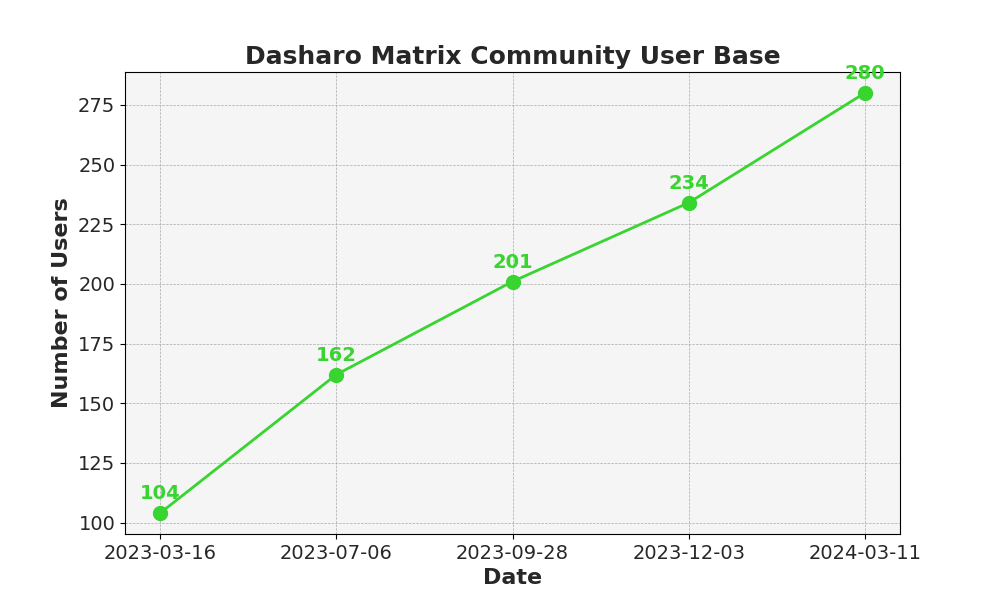
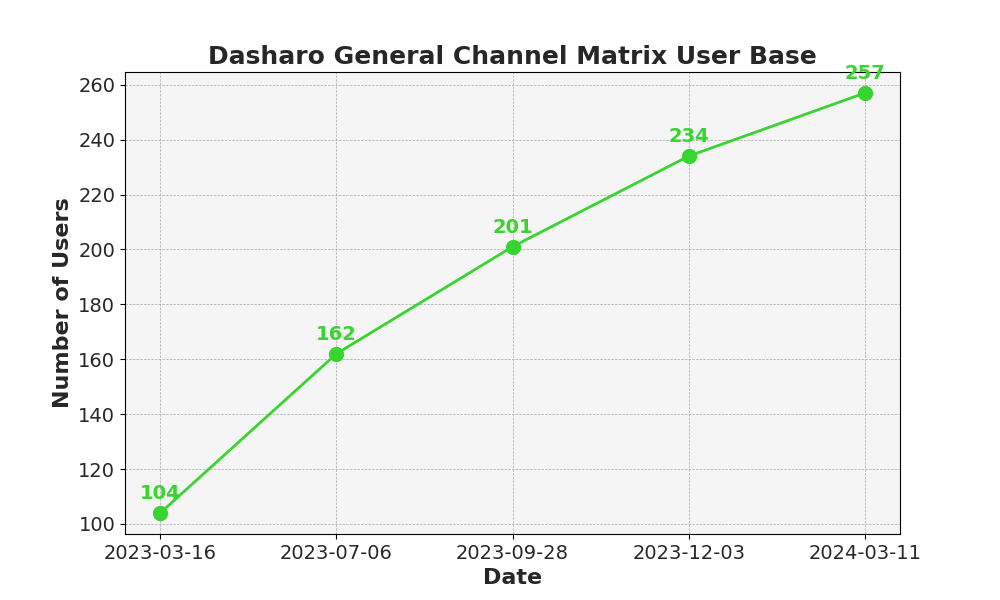
dug_5_dasharo_community_status: finalize presentation

diff --git a/diagrams/dasharo_users.py b/diagrams/dasharo_users.py
@@ -11,14 +11,14 @@ import matplotlib.ticker as ticker
 quarters = ["2023-03-16", "2023-07-06", "2023-09-28", "2023-12-03", "2024-03-11"]
 # Where is this number coming from? Dasharo Matrix Space? Or Dasharo General?
 # Let's make it Dasharo Matrix Space
-users = [104, 162, 201, 234, 280]
+users = [104, 162, 201, 234, 257]
 
 # Create the plot
 plt.figure(figsize=(10, 6))
 plt.plot(quarters, users, marker='o', linestyle='-', color='#38d430', linewidth=2, markersize=10)
 
 # Add titles and labels
-plt.title('Dasharo Matrix Community User Base', fontsize=18, fontweight='bold', color='#272727')
+plt.title('Dasharo General Channel Matrix User Base', fontsize=18, fontweight='bold', color='#272727')
 plt.xlabel('Date', fontsize=16, fontweight='bold', color='#272727')
 plt.ylabel('Number of Users', fontsize=16, fontweight='bold', color='#272727')
 

diff --git a/dug_5_dasharo_community_status.md b/dug_5_dasharo_community_status.md
@@ -17,36 +17,101 @@ SPDX-License-Identifier: CC-BY-SA-4.0
 Date of previous data snapshot: 03/12/2023
 Date of data snapshot: 11/03/2024
 
-- Considerations of lowlighter/metrics followup plugin
-  - it can be easily selfhosted
-  - gives a lot of inspiration as well as data
-  - of course those data points are little bit different and key question is
-    what to do with those, it essentially provide new data which may be but
-    doesn't have to be relevant
-- Commands cheat sheet
+---
 
-  - issues: `./diagrams/dasharo_issues.py`
-  - PRs: `./diagrams/dasharo_forks.py`
-  - number of unique users active in Dasharo community
-    - PAGER="less -R" gh issue list -s all -L 5000 --json author,comments --jq '.[].author.login'|sort|uniq|wc -l
-  - count all comments
-    - PAGER="less -R" gh issue list -s all -L 5000 --json comments --jq '.[].[].[].createdAt'|wc -l
-  - count how many comments each user posted
-    - PAGER="less -R" gh issue list -s all -L 5000 --json comments --jq '.[].[].[].author.login'|sort|uniq -c|sort -h
-  - matrix activity
-    - fetching all communication may be not the most effective way to get data (general: 00:11-TBD),
-      there seem to be need for differential download, but it looks like matrix
-      does not support that
-    - number of messages for DUG#4 snapshot:
-    - matrix comments per user:
-    - grep -E "\-.+: " matrix\ -\ Dasharo\ -\ General\ -\ Chat\ Export\ -\ 2023-07-02T22-37-07.435Z.txt |cut -d"-" -f2|cut -d":" -f1|grep -E "^ "|sort|uniq -c|grep -v "banned"|sort -h|grep -v import|grep -v "'"|grep -v "removed"|grep -v coreboot
+# Agenda
 
-- TBD: look at community status of other projects, news?
-  - consider news presentation with Dasharo status about the OpenSIL
-  - maybe announcements section
-- Documentation releases?
-  - in long run everything should be a release, it would be easier to track
-    ideas related to improvements of given area of development
+- DUG and vPub infrastructure transparency
+- Events page updates
+- Dasharo Team Events Roadmap
+- Dasharo Issues repo stats
+- Dasharo coreboot and edk2 forks repos stats
+- Dasharo Matrix stats
+
+---
+
+# Openness and transparency paranoia
+
+### .center[Presentations as a Code:<br>https://github.com/Dasharo/presentations]
+
+.center.image-80[![](/img/dasharo_presentations_repo.png)]
+
+---
+
+# Openness and transparency paranoia
+
+### .center[Presentations preparation is tracked in GitHub Milestones]
+
+.center.image-70[![](/img/dug_milestones.png)]
+
+---
+
+# Openness and transparency paranoia
+
+### .center[We are now FSFE REUSE complaint]
+
+```bash
+% reuse lint
+
+# SUMMARY
+* Bad licenses: 0
+
+* Deprecated licenses: 0
+* Licenses without file extension: 0
+* Missing licenses: 0
+* Unused licenses: 0
+* Used licenses: CC0-1.0, CC-BY-SA-4.0, Apache-2.0
+* Read errors: 0
+* files with copyright information: 227 / 227
+* files with license information: 227 / 227
+```
+
+---
+
+# Open Collective donations enabled
+
+.center.image-30[![](/img/oc_contrib2.png)]
+.center.image-40[![](/img/oc_contrib.png)]
+
+---
+
+# Event page updates
+
+### .center[Please let us know how much you don't like it]
+
+.center.image-99[![](/img/dug_5_event_website_changes.png)]
+
+---
+
+# Event page updates
+
+### .center[Pretalx widget (`cfp.3mdeb.com`) added to Attendize (`vpub.dasharo.com`)]
+
+.center.image-90[![](/img/dug_5_event_website_changes2.png)]
+
+---
+
+# Event page plans
+
+- migration to `events.dasharo.com`
+  - `vpub.dasharo.com` seem to be to much focused on virtual events
+- grand unification under MkDocs
+  - `docs.dasharo.com + dasharo.com + events.dasharo.com ?`
+- Git Cliff support
+- Ideas and bug reports welcome:
+  - https://github.com/dasharo/presentations/issues
+
+---
+
+# Dasharo Events Roadmap Q1-Q2'24
+
+.center.image-100[![](img/dasharo_team_roadmap.png)]
+
+---
+
+# Dasharo Events Roadmap Q3-Q4'24
+
+.center.image-100[![](img/dasharo_team_roadmap2.png)]
 
 ---
 
@@ -55,12 +120,45 @@ Date of data snapshot: 11/03/2024
 .center.image-50[![](/img/dug_5_issues.png)]
 .center.image-80[![](/img/dug_5_dasharo_issues.png)]
 
+???
+
+Modify and run:
+./diagrams/dasharo_issues.py
+
+---
+
+# Dasharo Issues
+
+### .center[Comments]
+
+.center.image-50[![](/img/dug_5_dasharo_issues_comments.png)]
+
+### .center[Top Contributors]
+
+.center.image-60[![](/img/dug_5_dasharo_issues_comments_users.png)]
+
+???
+
+Following should be run in dasharo-issues repo, gh command should be installed:
+
+- number of unique users active in Dasharo community
+  - PAGER="less -R" gh issue list -s all -L 5000 --json author,comments --jq '.[].author.login'|sort|uniq|wc -l
+- count all comments
+  - PAGER="less -R" gh issue list -s all -L 5000 --json comments --jq '.[].[].[].createdAt'|wc -l
+- count how many comments each user posted
+  - PAGER="less -R" gh issue list -s all -L 5000 --json comments --jq '.[].[].[].author.login'|sort|uniq -c|sort -h
+
 ---
 
 # Dasharo/coreboot PRs
 
 .center.image-50[![](/img/dug_5_coreboot_prs.png)]
 .center.image-80[![](/img/dug_5_dasharo_coreboot.png)]
+
+???
+
+Modify and run:
+./diagrams/dasharo_forks.py
 
 ---
 
@@ -106,15 +204,23 @@ awk -F';' '{sum += $7} END {print sum}' dug4.csv #removed lines
 
 ---
 
-# Dasharo Issues
+# Dasharo Matrix
 
-### .center[Comments]
+### .center[Messages and Users]
 
-.center.image-50[![](/img/dug_5_dasharo_issues_comments.png)]
+.center.image-50[![](/img/dug_5_dasharo_general_matrix.png)]
 
-### .center[Top Contributors]
+### .center[Top contributors]
 
-.center.image-60[![](/img/dug_5_dasharo_issues_comments_users.png)]
+.center.image-50[![](/img/dug_5_dasharo_general_matrix_users.png)]
+
+???
+
+Getting number of messages for every user:
+grep -E "\-.+:\s" matrix\ -\ Dasharo\ -\ General\ -\ Chat\ Export\ -\ 2024-03-12T11-16-54.063Z.txt |cut -d"-" -f2|cut -d":" -f1|grep -E "^ "|sort|uniq -c|grep -v "banned"|sort -h|grep -v import|grep -v "'"|grep -v "removed"|grep -v coreboot
+
+To count messages add after pipe:
+awk '{sum += $1} END {print sum}'
 
 ---
 
@@ -126,9 +232,22 @@ awk -F';' '{sum += $7} END {print sum}' dug4.csv #removed lines
 
 # Dasharo Matrix
 
-## .center[Messages]
+### .center[Most active Dasharo Community Matrix channels]
 
-## .center[Top contributors]
+.center[Random (`#dasharo-random:matrix.org`)]
+.center[Support (`#dasharo-support:matrix.org`)]
+.center[Dasharo Developers vPub (`#dasharo-osf-vpub:matrix.org`)]
+
+???
+
+General: 29764
+Random: 7211
+Support: 3322
+vPub: 3050
+Supermicro: 1640
+OSFV: 825
+Announcements: 187
+Laptops: 187
 
 ---
 

diff --git a/dug_5_greetings_agenda.md b/dug_5_greetings_agenda.md
@@ -75,91 +75,6 @@ SPDX-License-Identifier: CC-BY-SA-4.0
 
 ---
 
-# Openness and transparency paranoia
-
-### .center[Presentations as a Code:<br>https://github.com/Dasharo/presentations]
-
-.center.image-80[![](/img/dasharo_presentations_repo.png)]
-
----
-
-# Openness and transparency paranoia
-
-### .center[Presentations preparation is tracked in GitHub Milestones]
-
-.center.image-70[![](/img/dug_milestones.png)]
-
----
-
-# Openness and transparency paranoia
-
-### .center[We are now FSFE REUSE complaint]
-
-```bash
-% reuse lint
-
-# SUMMARY
-* Bad licenses: 0
-
-* Deprecated licenses: 0
-* Licenses without file extension: 0
-* Missing licenses: 0
-* Unused licenses: 0
-* Used licenses: CC0-1.0, CC-BY-SA-4.0, Apache-2.0
-* Read errors: 0
-* files with copyright information: 227 / 227
-* files with license information: 227 / 227
-```
-
----
-
-# Open Collective donations enabled
-
-.center.image-30[![](/img/oc_contrib2.png)]
-.center.image-40[![](/img/oc_contrib.png)]
-
----
-
-# Event page updates
-
-### .center[Please let us know how much you don't like it]
-
-.center.image-99[![](/img/dug_5_event_website_changes.png)]
-
----
-
-# Event page updates
-
-### .center[Pretalx widget (`cfp.3mdeb.com`) added to Attendize (`vpub.dasharo.com`)]
-
-.center.image-90[![](/img/dug_5_event_website_changes2.png)]
-
----
-
-# Event page plans
-
-- migration to `events.dasharo.com`
-  - `vpub.dasharo.com` seem to be to much focused on virtual events
-- grand unification under MkDocs
-  - `docs.dasharo.com + dasharo.com + events.dasharo.com ?`
-- Git Cliff support
-- Ideas and bug reports welcome:
-  - https://github.com/dasharo/presentations/issues
-
----
-
-# Dasharo Events Roadmap Q1-Q2'24
-
-.center.image-100[![](img/dasharo_team_roadmap.png)]
-
----
-
-# Dasharo Events Roadmap Q3-Q4'24
-
-.center.image-100[![](img/dasharo_team_roadmap2.png)]
-
----
-
 class: center, middle, intro
 
 # Q&A
